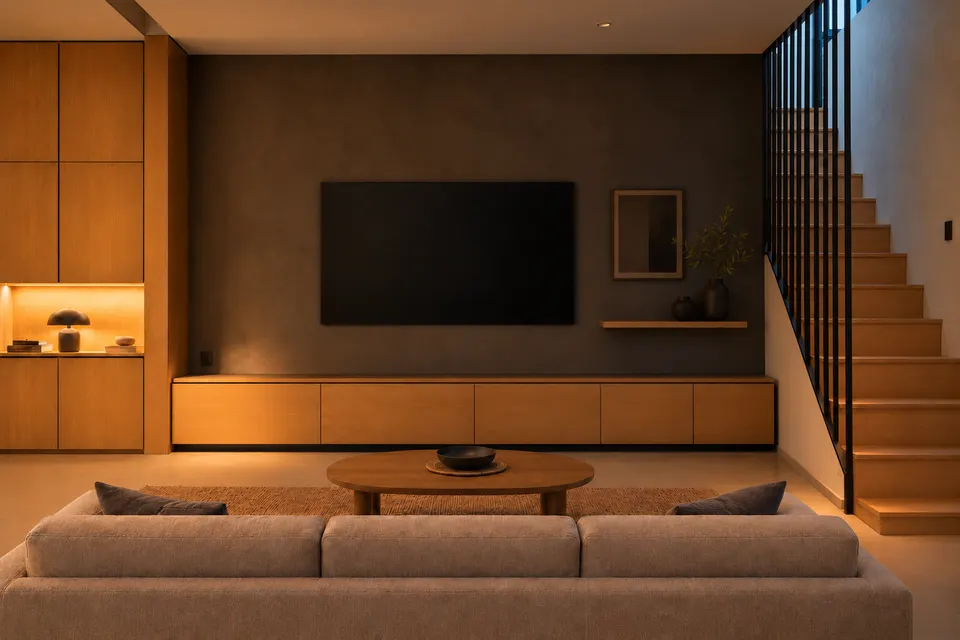
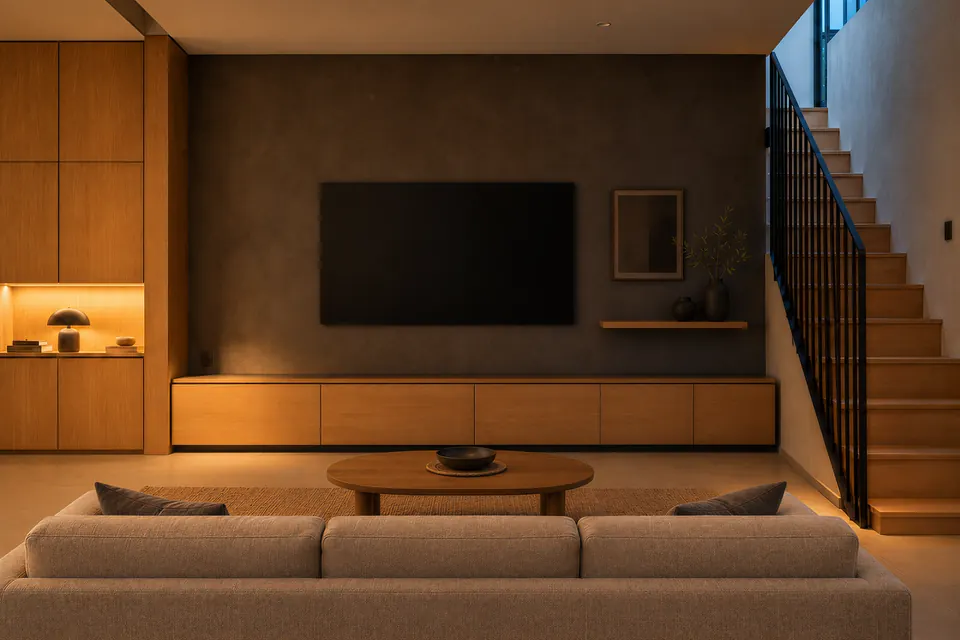
docs: record owner-approved design system exception

diff --git a/docs/STATE.md b/docs/STATE.md
@@ -1,6 +1,6 @@
 # Trạng thái hiện tại
 
-- Updated: 2026-10-21
+- Updated: 2026-10-23
 - Phase: website tĩnh VI/EN. Source `src/site/`, build `.site-output/`; CMS, admin, D1, R2 và
   Worker chưa activate ([CMS](specs/cms.md)). Phát hành chính thức trên `truongthinhads.vn` chờ xong CMS.
 - Demo: Cloudflare Workers static assets ([quyết định](decisions/cloudflare-workers-static-demo.md)),
@@ -16,7 +16,7 @@
 - Từ khóa SEO tạm dừng tới khi site đủ feature ([card](https://app.notion.com/p/3f5332849a0e812d88d1d97ea66cb79b)).
 
 ## Blocker đã verify
-
+- Ngoại lệ owner đã duyệt: Design System chưa đồng bộ ảnh A321 mới; giữ asset hiện tại trong đợt này, chờ Claude audit/cập nhật khi có hạn mức.
 - Owner fact chưa xác nhận: năm thành lập, bảo hành ([PRODUCT](../PRODUCT.md)).
 - Phát hành: LCP residential mobile hai mode ([gate](specs/static-release.md#gate-còn-mở)); các câu
   `[CẦN LÀM RÕ]` nằm ở mục "Gate còn mở" của spec sở hữu ([docs index](index.md)).

diff --git a/docs/specs/docs-system.md b/docs/specs/docs-system.md
@@ -156,7 +156,9 @@ nhật hoặc lý do không đổi. `docs.yml` chạy trên `ubuntu-latest` như
    bỏ `@font-face` tự host vì preview trên claude.ai nạp font từ Google).
    `scripts/docs/build-design-system.mjs` sinh preview từ HTML website (card rail công trình chèn từ dữ liệu như build), bundle
    và ảnh `assets/Photos/`; `qa:docs` chạy chế độ `--check`, file sinh lệch
-   source thì fail. Phần Advertising do JavaScript dựng được
+   source thì fail. Ngoại lệ tạm thời phải được ghi trong
+   `design-system/sync-exceptions.json` kèm lý do owner duyệt; chỉ đúng path
+   được liệt kê mới được bỏ qua. Phần Advertising do JavaScript dựng được
    `scripts/docs/capture-design-system.mjs` chụp từ trang chạy thật vào
    `scripts/docs/captures/`; `qa:docs` fail khi preview dùng class không còn
    trong `src/site/` hay generator `scripts/site/`. Catalog public chưa có card nhiều media nên capture
